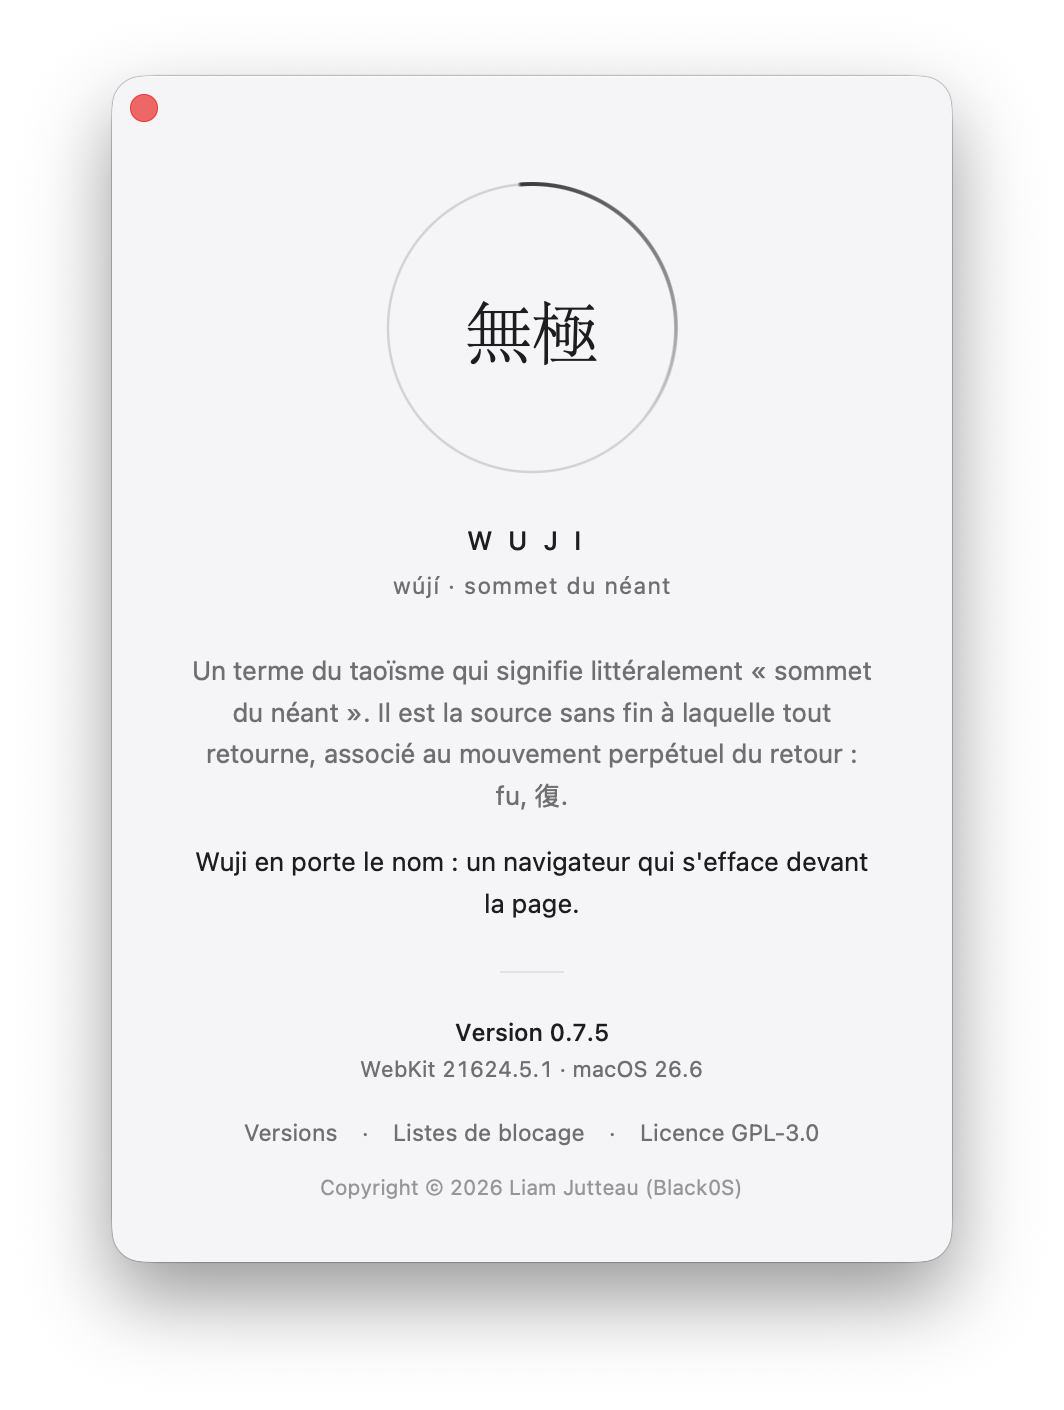
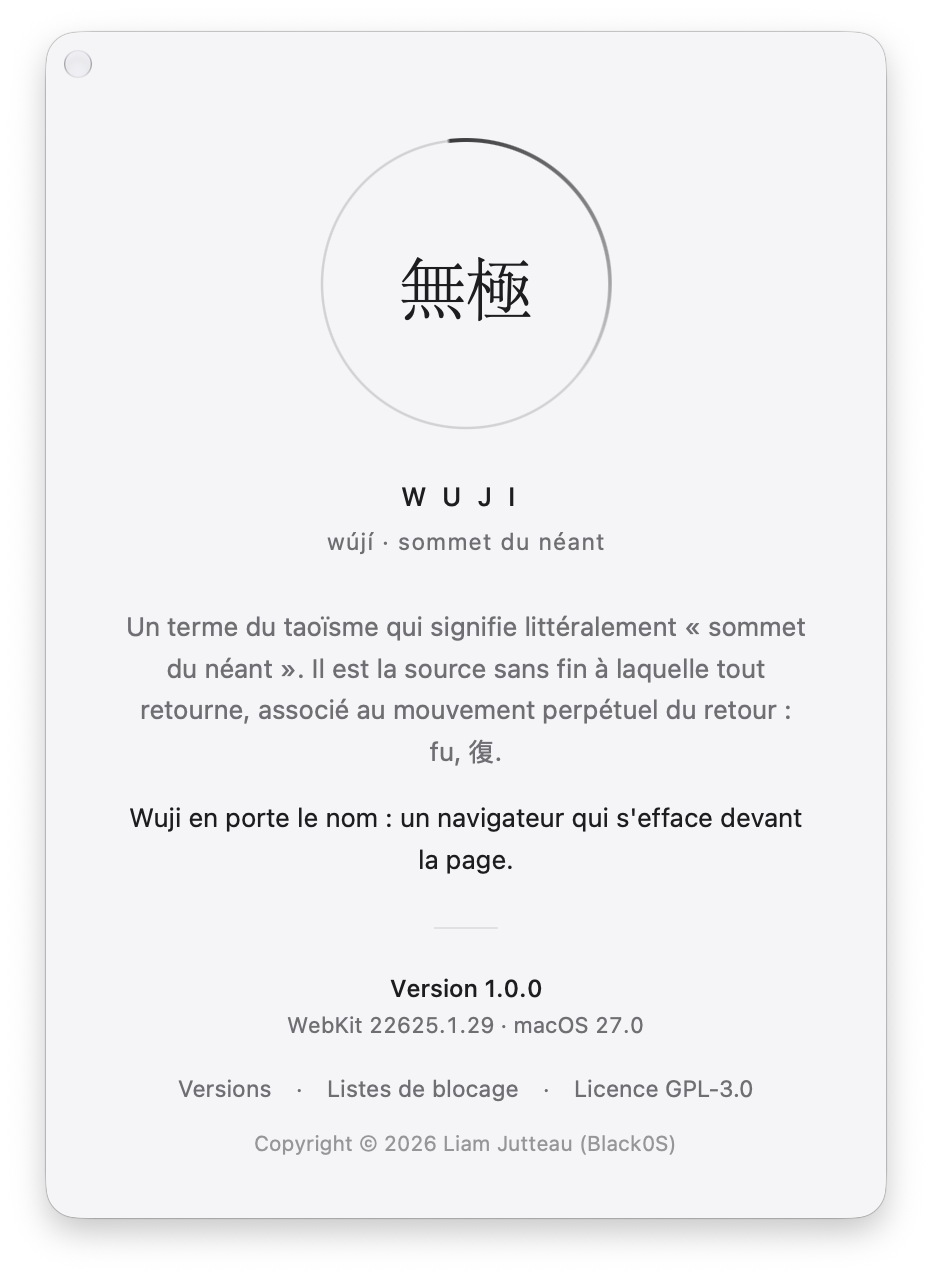
Captures : À propos en 1.0.0 sur macOS 27, Mes règles avec leurs descriptions

diff --git a/pages/blocage/index.html b/pages/blocage/index.html
@@ -156,9 +156,9 @@
   <h2>Vos règles</h2>
   <p class="section-lede">Une liste bloque ce que d'autres ont listé. Reste l'encart d'un site qu'on est seul à visiter.</p>
 <figure class="figure narrow">
-  <img src="../../assets/captures/regles.png" width="1600" height="1204" loading="lazy" data-zoom
-       alt="Réglages › Mes règles : huit éléments masqués sur cinq sites, google.com déplié sur son sélecteur, Importer, Exporter et Nouveau site.">
-  <figcaption>Réglages › Mes règles — rangées par site, exportées telles que WebKit les compile.</figcaption>
+  <img src="../../assets/captures/regles.png" width="1600" height="1178" loading="lazy" data-zoom
+       alt="Réglages › Mes règles : deux éléments masqués sur deux sites, google.com et youtube.com dépliés, chaque sélecteur avec sa description, Importer, Exporter et Nouveau site.">
+  <figcaption>Réglages › Mes règles — rangées par site, décrites, exportées telles que WebKit les compile.</figcaption>
 </figure>
   <div class="features">
     <div class="feature"><h3>Masquer un élément</h3><p>« Masquer un élément… », depuis le bouclier : le survol montre, le clic choisit, échap renonce. Le sélecteur est calculé court, pour survivre au prochain remaniement de la page. Le panneau vit à part de la page : elle ne peut ni poser ni retirer une règle à votre place.</p></div>

diff --git a/index.html b/index.html
@@ -220,8 +220,8 @@
       <p><span lang="zh-Hant">無極</span>, <em>wújí</em> : un terme du taoïsme qui signifie littéralement « sommet du néant ». Il est la source sans fin à laquelle tout retourne, associé au mouvement perpétuel du retour, <em>fu</em>, <span lang="zh-Hant">復</span>. Un navigateur qui s'efface devant la page en porte le nom.</p>
     </div>
     <figure class="figure portrait">
-  <img src="assets/captures/a-propos.png" width="1064" height="1410" loading="lazy" data-zoom
-       alt="La fenêtre À propos de Wuji : le cercle et les caractères 無極, le sens du nom, la version, WebKit et macOS, les liens et le copyright.">
+  <img src="assets/captures/a-propos.png" width="932" height="1278" loading="lazy" data-zoom
+       alt="La fenêtre À propos de Wuji : le cercle et les caractères 無極, le sens du nom, la version 1.0.0, WebKit et macOS 27, les liens et le copyright.">
   <figcaption>À propos de Wuji — le nom d'abord, la version ensuite.</figcaption>
 </figure>
   </div>
